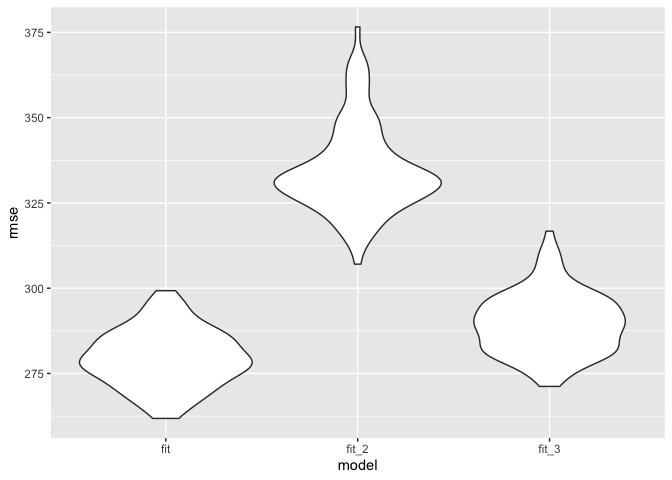
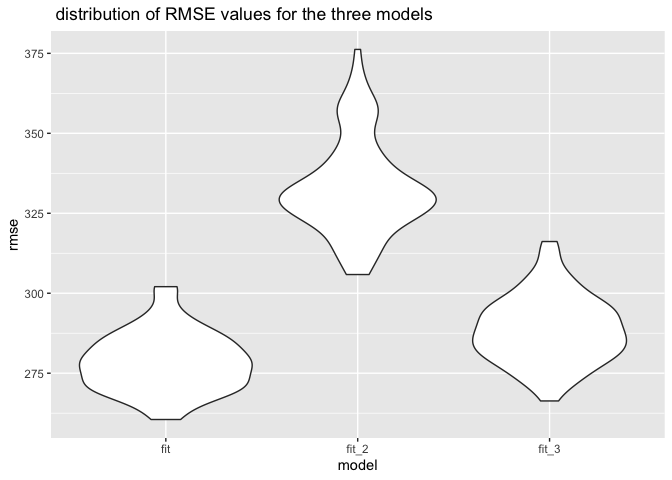
done problem 1

diff --git a/hw6.md b/hw6.md
@@ -153,11 +153,11 @@ cv_df %>% pull(train) %>% .[[1]] %>% as_tibble
     ##  3 female     36      50  3345   148      85 white       39.9 absent        12
     ##  4 male       34      52  3062   157      55 white       40   absent        14
     ##  5 female     34      52  3374   156       5 white       41.6 absent        13
-    ##  6 male       33      52  3374   129      55 white       40.7 absent        12
+    ##  6 female     33      46  2523   126      96 black       40.3 absent        14
     ##  7 female     33      49  2778   140       5 white       37.4 absent        12
     ##  8 male       36      52  3515   146      85 white       40.3 absent        11
     ##  9 male       33      50  3459   169      75 black       40.7 absent        12
-    ## 10 male       35      51  3459   146      55 white       39.4 absent        12
+    ## 10 female     35      51  3317   130      55 white       43.4 absent        13
     ## # … with 3,463 more rows, and 10 more variables: mheight <dbl>, momage <dbl>,
     ## #   mom_race <fct>, parity <dbl>, pnumlbw <dbl>, pnumsga <dbl>, ppbmi <dbl>,
     ## #   ppwt <dbl>, smoken <dbl>, wtgain <dbl>
@@ -169,16 +169,16 @@ cv_df %>% pull(test) %>% .[[1]] %>% as_tibble
     ## # A tibble: 869 × 20
     ##    babysex bhead blength   bwt delwt fincome dad_race gaweeks malform menarche
     ##    <fct>   <dbl>   <dbl> <dbl> <dbl>   <dbl> <fct>      <dbl> <fct>      <dbl>
-    ##  1 female     33      46  2523   126      96 black       40.3 absent        14
-    ##  2 female     35      51  3317   130      55 white       43.4 absent        13
-    ##  3 male       36      53  3629   147      75 white       41.3 absent        11
-    ##  4 female     33      49  2551   120      75 black       38.1 absent        11
-    ##  5 female     35      52  3289   135      55 white       40.6 absent        13
-    ##  6 male       36      54  3402   161      95 white       40.1 absent        11
-    ##  7 female     35      51  3827   130      45 white       41.3 absent        12
-    ##  8 male       38      53  3799   167      75 white       39.9 absent        12
-    ##  9 male       35      53  3175   130      45 white       40.4 absent        13
-    ## 10 female     35      53  3600   141      35 white       42.3 absent        14
+    ##  1 male       33      52  3374   129      55 white       40.7 absent        12
+    ##  2 female     36      52  3629   154      65 white       40.3 absent        11
+    ##  3 male       38      53  3799   167      75 white       39.9 absent        12
+    ##  4 female     34      54  3345   130      95 white       42.1 absent        10
+    ##  5 female     34      51  3232   155      55 white       41.6 absent        15
+    ##  6 female     34      51  3175   142      96 white       42.3 absent        17
+    ##  7 female     34      49  3317   142      35 white       40.4 absent        12
+    ##  8 female     34      49  3033   128      25 white       41.1 absent        12
+    ##  9 female     30      42  2013   150      65 black       37.7 absent        13
+    ## 10 male       34      52  3033   172      85 white       41.1 absent        16
     ## # … with 859 more rows, and 10 more variables: mheight <dbl>, momage <dbl>,
     ## #   mom_race <fct>, parity <dbl>, pnumlbw <dbl>, pnumsga <dbl>, ppbmi <dbl>,
     ## #   ppwt <dbl>, smoken <dbl>, wtgain <dbl>
@@ -191,15 +191,16 @@ cv_df =
     train = map(train, as_tibble),
     test = map(test, as_tibble))
 
-cv_df = 
-  cv_df %>% 
-  mutate(fit =map(train, ~lm(bwt ~ blength +bhead + delwt+ babysex +fincome +gaweeks +momage +ppbmi +smoken ,data = .)),
-         fit_2 =map(train, ~lm(bwt ~  blength +gaweeks, data = .)),
-         fit_3 = map(train,~lm(bwt ~ babysex + bhead + blength + babysex* bhead + babysex*blength + blength*bhead + babysex*bhead*blength, data = .)))%>% 
+cv_df = cv_df %>% 
+  mutate(
+    fit =map(train, ~lm(bwt ~ blength +bhead + delwt+ babysex +fincome +gaweeks +momage +ppbmi +smoken ,data = .)),
+    fit_2 =map(train, ~lm(bwt ~  blength +gaweeks, data = .)),
+    fit_3 = map(train,~lm(bwt ~ babysex + bhead + blength + babysex* bhead + babysex*blength + blength*bhead + babysex*bhead*blength, data = .)))%>% 
   mutate(
     rmse_fit = map2_dbl(fit, test, ~rmse(model = .x, data = .y)),
     rmse_fit_2 = map2_dbl(fit_2, test, ~rmse(model = .x, data = .y)),
     rmse_fit_3= map2_dbl(fit_3, test, ~rmse(model = .x, data = .y)))
+#P.S :it runs slowly
 ```
 
 The plot below shows the distribution of RMSE values for each candidate
@@ -214,7 +215,8 @@ cv_df %>%
     values_to = "rmse",
     names_prefix = "rmse_") %>% 
   mutate(model = fct_inorder(model)) %>% 
-  ggplot(aes(x = model, y = rmse)) + geom_violin()
+  ggplot(aes(x = model, y = rmse)) + geom_violin()+
+    labs( title = " distribution of RMSE values for the three models ")
 ```
 
 ![](hw6_files/figure-gfm/unnamed-chunk-6-1.png)<!-- -->
@@ -222,3 +224,5 @@ cv_df %>%
 It can be seen that my model(fit) has the least rmse, suggesting that it
 maybe the best prediction model when compared to the two other
 models(fit_2, fit_3)
+
+#Problem 2
